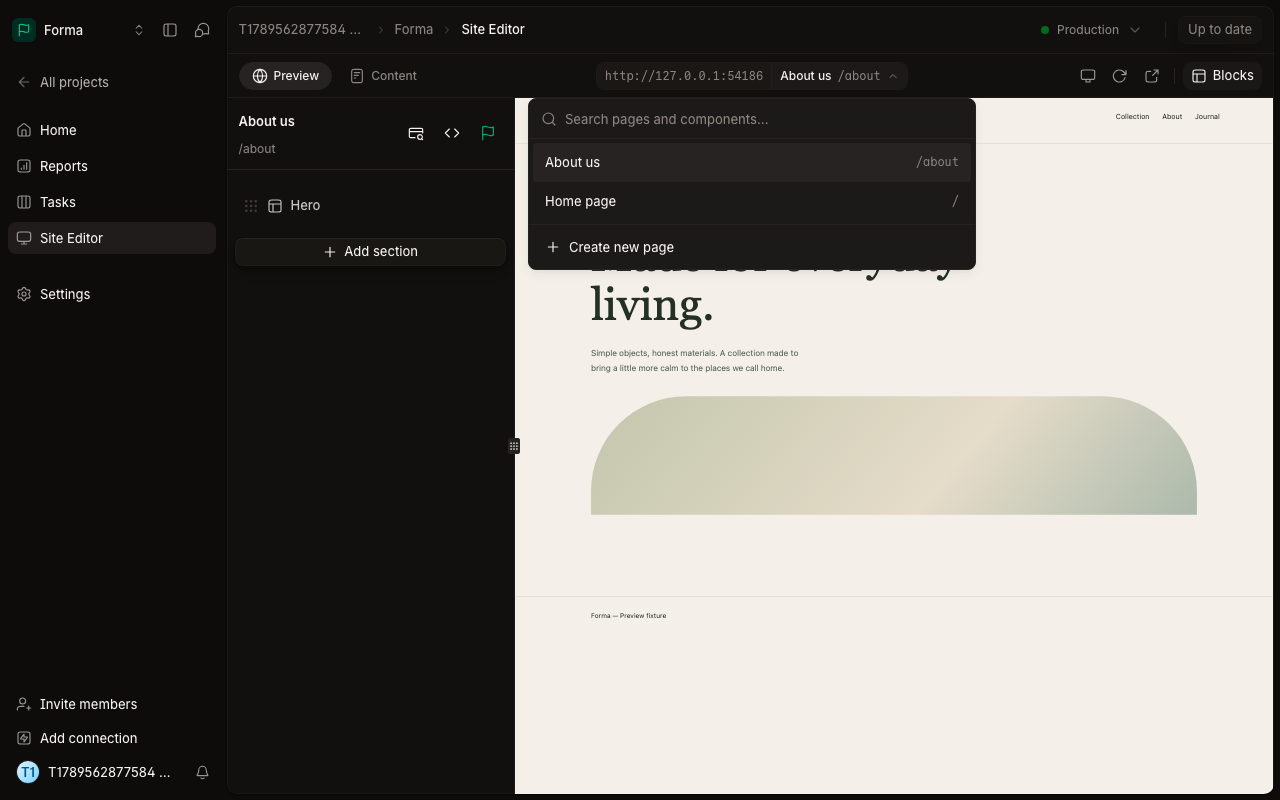
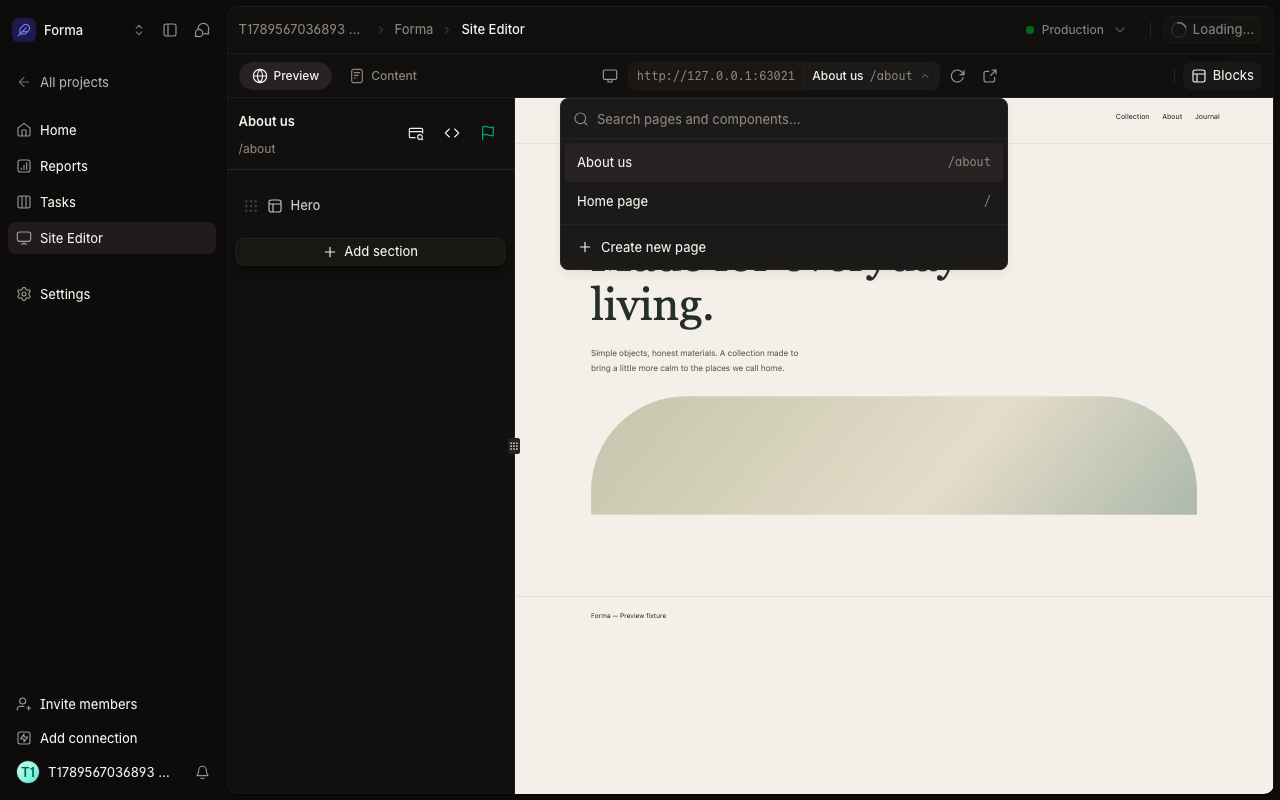
fix(web): group preview navigation beside the page selector

diff --git a/apps/web/src/components/sandbox/preview/preview.tsx b/apps/web/src/components/sandbox/preview/preview.tsx
@@ -1494,7 +1494,7 @@ export function PreviewContent({ virtualMcpId }: { virtualMcpId: string }) {
             {!activeGlobalSection && !activeLoader && pageOrigin && (
               <span
                 data-testid="preview-page-origin"
-                className="flex min-w-0 max-w-56 items-center border-r border-border/60 bg-muted/60 px-2 font-mono text-muted-foreground"
+                className="flex min-w-0 max-w-56 items-center border-r border-border/60 bg-muted/60 px-2 font-mono text-muted-foreground @max-xl/panel-toolbar:max-w-1/4"
               >
                 <span className="truncate">{pageOrigin}</span>
               </span>
@@ -1678,6 +1678,46 @@ export function PreviewContent({ virtualMcpId }: { virtualMcpId: string }) {
     )
   ) : null;
 
+  const previewNavigation =
+    showPreviewToolbar || contentEditingEnabled ? (
+      <div className="flex min-w-0 items-center gap-1">
+        <Tooltip>
+          <TooltipTrigger asChild>
+            <ToolbarIconButton
+              onClick={handleDeviceToggle}
+              aria-label={t(DEVICE_LABEL_KEYS[previewDeviceSize])}
+            >
+              {previewDeviceSize === "mobile" ? (
+                <Phone02 size={16} />
+              ) : previewDeviceSize === "tablet" ? (
+                <Tablet01 size={16} />
+              ) : (
+                <Monitor04 size={16} />
+              )}
+            </ToolbarIconButton>
+          </TooltipTrigger>
+          <TooltipContent>
+            {t(DEVICE_LABEL_KEYS[previewDeviceSize])}
+          </TooltipContent>
+        </Tooltip>
+        {urlControls}
+        <div className="flex shrink-0 items-center gap-1">
+          <ToolbarIconButton
+            onClick={handleRefresh}
+            aria-label={t("sandbox.preview.refresh")}
+          >
+            <RefreshCw01 size={16} />
+          </ToolbarIconButton>
+          <ToolbarIconButton
+            onClick={() => void handleOpenPreview()}
+            aria-label={t(openPreviewLabelKey)}
+          >
+            <LinkExternal01 size={16} />
+          </ToolbarIconButton>
+        </div>
+      </div>
+    ) : null;
+
   const canVisualEdit = display.mode === "sandbox";
 
   // Desktop stays fluid until the canvas is narrower than its logical width; then (and always for mobile/tablet) the frame scales to fit.
@@ -1719,37 +1759,6 @@ export function PreviewContent({ virtualMcpId }: { virtualMcpId: string }) {
             <CursorClick01 size={16} />
           </ToolbarIconButton>
         )}
-        <Tooltip>
-          <TooltipTrigger asChild>
-            <ToolbarIconButton
-              onClick={handleDeviceToggle}
-              aria-label={t(DEVICE_LABEL_KEYS[previewDeviceSize])}
-            >
-              {previewDeviceSize === "mobile" ? (
-                <Phone02 size={16} />
-              ) : previewDeviceSize === "tablet" ? (
-                <Tablet01 size={16} />
-              ) : (
-                <Monitor04 size={16} />
-              )}
-            </ToolbarIconButton>
-          </TooltipTrigger>
-          <TooltipContent>
-            {t(DEVICE_LABEL_KEYS[previewDeviceSize])}
-          </TooltipContent>
-        </Tooltip>
-        <ToolbarIconButton
-          onClick={handleRefresh}
-          aria-label={t("sandbox.preview.refresh")}
-        >
-          <RefreshCw01 size={16} />
-        </ToolbarIconButton>
-        <ToolbarIconButton
-          onClick={() => void handleOpenPreview()}
-          aria-label={t(openPreviewLabelKey)}
-        >
-          <LinkExternal01 size={16} />
-        </ToolbarIconButton>
         {contentEditingEnabled && (
           <>
             <Separator
@@ -1815,11 +1824,11 @@ export function PreviewContent({ virtualMcpId }: { virtualMcpId: string }) {
       <Panel.Toolbar.Center.Portal
         fallback={
           <div className="flex min-w-0 items-center justify-center border-b p-2">
-            {urlControls}
+            {previewNavigation}
           </div>
         }
       >
-        {urlControls}
+        {previewNavigation}
       </Panel.Toolbar.Center.Portal>
       <Panel.Toolbar.Right.Portal fallback={previewTools}>
         {previewTools}

diff --git a/apps/web/docs/component-architecture.md b/apps/web/docs/component-architecture.md
@@ -287,13 +287,14 @@ all feature ancestors in that menu, keeping the current title and actions visibl
 </Panel>
 
 // Deep inside the Preview feature, with its existing state and callbacks:
-<Panel.Toolbar.Center.Portal>{pagePicker}</Panel.Toolbar.Center.Portal>
+<Panel.Toolbar.Center.Portal>{previewNavigation}</Panel.Toolbar.Center.Portal>
 <Panel.Toolbar.Right.Portal>{previewTools}</Panel.Toolbar.Right.Portal>
 ```
 
 - The first row is 48px tall: breadcrumbs and title on the left, actions on the right.
-- `Panel.Toolbar.Left` holds `Page.Tabs` / `Page.Tab`; Center holds the page path;
-  Right holds local view tools. All three support `Target` / `Portal`.
+- `Panel.Toolbar.Left` holds `Page.Tabs` / `Page.Tab`; Center holds the device-size
+  toggle, page selector, Refresh, and Open in new tab, in that order. Right holds
+  visual editing and Blocks controls. All three support `Target` / `Portal`.
 - Route links use `<Page.Tab asChild><Link /></Page.Tab>` and `aria-current`.
   In-place views use buttons with `aria-pressed`. Selecting an active view leaves
   it open. Labels remain visible; long sets scroll horizontally.
